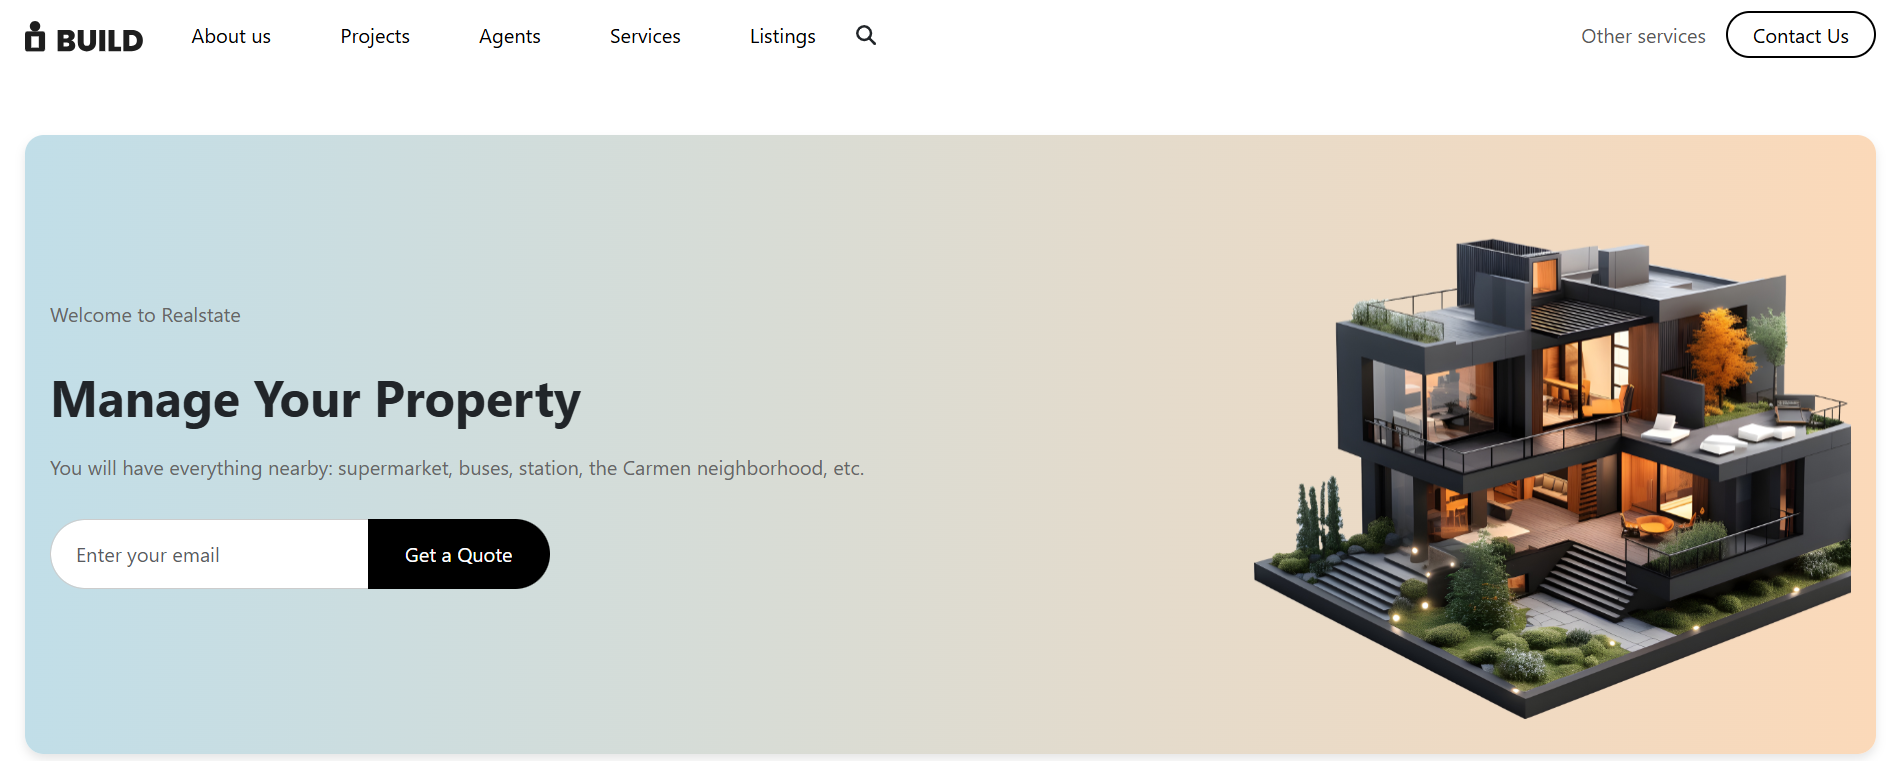
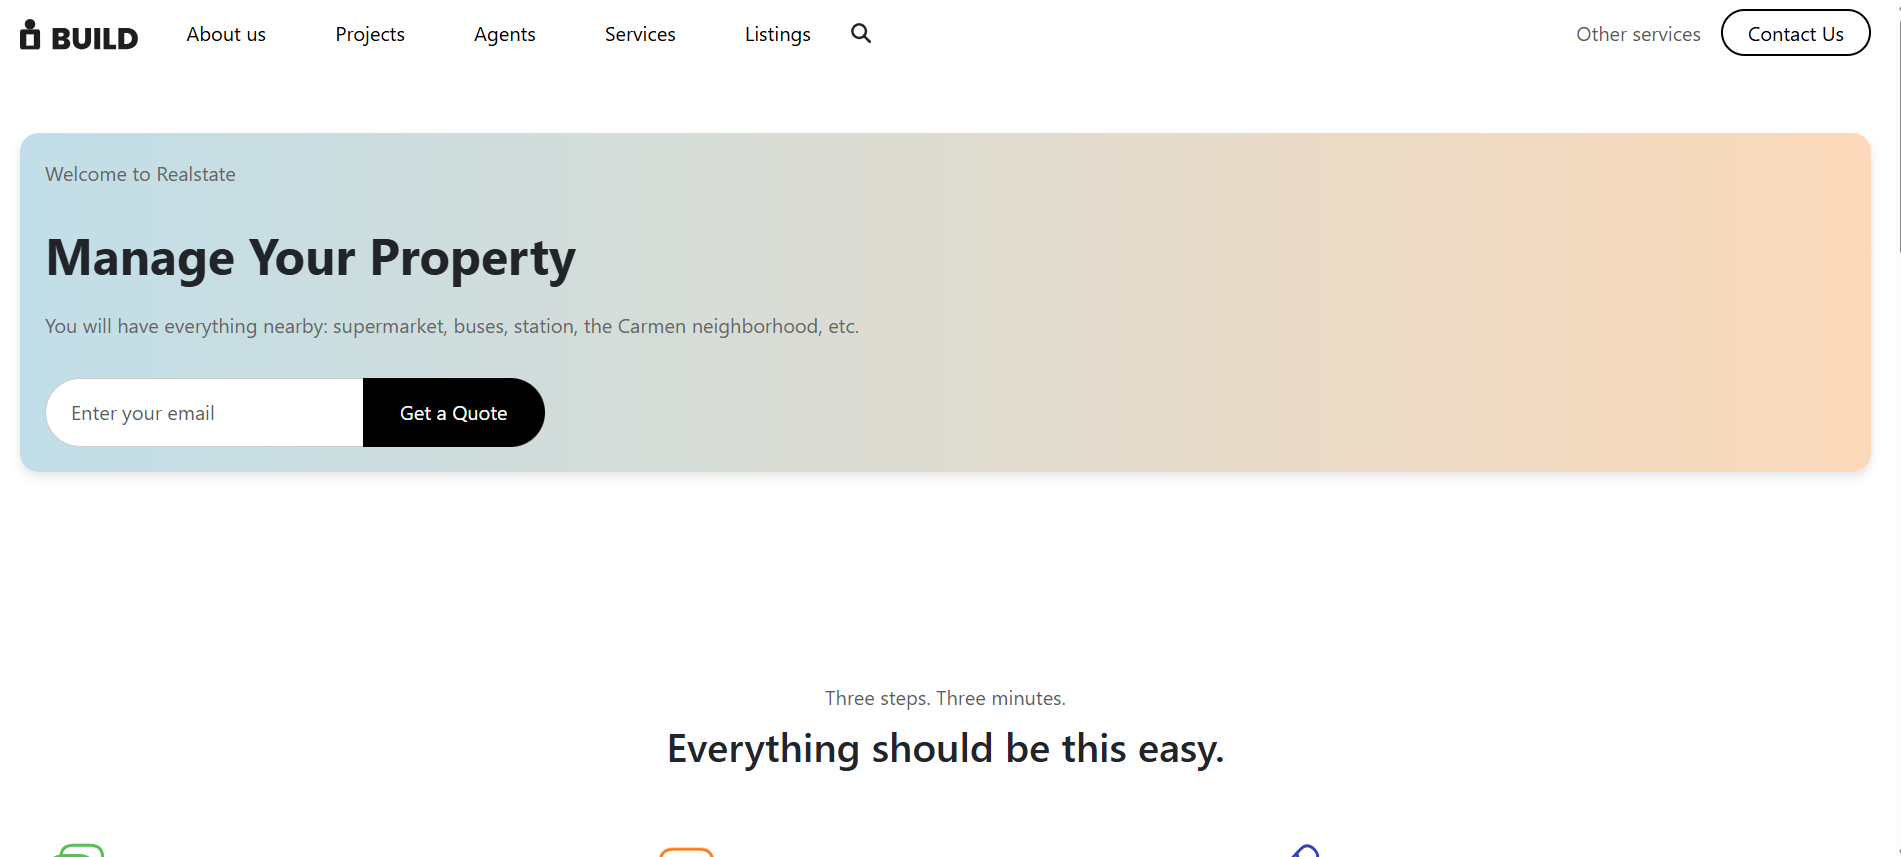
updated porfolio mockups

diff --git a/index.html b/index.html
@@ -437,7 +437,7 @@
                             </div>
                             <div class="col-lg-4 col-sm-6">
                                 <div class="portfolio-img" data-bs-toggle="modal" data-bs-target="#project7Modal">
-                                    <img decoding="async" src="./assets/images/portfolio/EFamily/Instagram post - 1.png"
+                                    <img decoding="async" src="./assets/images/portfolio/seller-margin/Mockupitem.png"
                                         class="img-fluid w-100">
                                     <div class="overlay"> <i class="fas fa-plus"></i></div>
                                 </div>
@@ -449,7 +449,7 @@
                             </div>
                             <div class="col-lg-4 col-sm-6">
                                 <div class="portfolio-img" data-bs-toggle="modal" data-bs-target="#project9Modal">
-                                    <img decoding="async" src="./assets/images/portfolio/EFamily/Instagram post - 1.png"
+                                    <img decoding="async" src="./assets/images/portfolio/luminaXper/Mockupitem.png"
                                         class="img-fluid w-100">
                                     <div class="overlay"> <i class="fas fa-plus"></i></div>
                                 </div>
@@ -461,7 +461,7 @@
                             </div>
                             <div class="col-lg-4 col-sm-6">
                                 <div class="portfolio-img" data-bs-toggle="modal" data-bs-target="#project8Modal">
-                                    <img decoding="async" src="./assets/images/portfolio/EFamily/Instagram post - 1.png"
+                                    <img decoding="async" src="./assets/images/portfolio/fitness-gym/Mockupitem.png"
                                         class="img-fluid w-100">
                                     <div class="overlay"> <i class="fas fa-plus"></i></div>
                                 </div>
@@ -500,7 +500,7 @@
                            
                             <div class="col-lg-4 col-sm-6">
                                 <div class="portfolio-img" data-bs-toggle="modal" data-bs-target="#project10Modal">
-                                    <img decoding="async" src="./assets/images/portfolio/EFamily/Instagram post - 1.png"
+                                    <img decoding="async" src="./assets/images/portfolio/foodi-website/Mockupitem.png"
                                         class="img-fluid w-100">
                                     <div class="overlay"> <i class="fas fa-plus"></i></div>
                                 </div>
@@ -512,7 +512,7 @@
                             </div>
                             <div class="col-lg-4 col-sm-6">
                                 <div class="portfolio-img" data-bs-toggle="modal" data-bs-target="#project11Modal">
-                                    <img decoding="async" src="./assets/images/portfolio/EFamily/Instagram post - 1.png"
+                                    <img decoding="async" src="./assets/images/portfolio/realstate/Mockupitem.png"
                                         class="img-fluid w-100">
                                     <div class="overlay"> <i class="fas fa-plus"></i></div>
                                 </div>
@@ -523,7 +523,7 @@
                             </div>
                             <div class="col-lg-4 col-sm-6">
                                 <div class="portfolio-img" data-bs-toggle="modal" data-bs-target="#project12Modal">
-                                    <img decoding="async" src="./assets/images/portfolio/EFamily/Instagram post - 1.png"
+                                    <img decoding="async" src="./assets/images/portfolio/nexcent/Mockupitem.png"
                                         class="img-fluid w-100">
                                     <div class="overlay"> <i class="fas fa-plus"></i></div>
                                 </div>
@@ -1074,7 +1074,17 @@
                    
                     <p class="card-text">
                         <strong>Description:</strong><br>
-                        Front-end GYM Complete Website
+                        Developed a complete front-end website for a fictional fitness and gym center as part of my learning and skill-building journey.
+
+                        Built a responsive and visually appealing interface using React.js and Bootstrap.
+                        
+                        Designed sections like home, services, trainers, membership plans, and contact forms.
+                        
+                        Focused on layout structure, component-based design, and cross-device responsiveness.
+                        
+                        This project helped enhance my understanding of front-end frameworks and sharpened my skills in building real-world business websites.
+                        
+                        
                       </p>
                   
                 </div>
@@ -1127,7 +1137,15 @@
                    
                     <p class="card-text">
                         <strong>Description:</strong><br>
-                        Front-end Remote Software Company LuminaXpert complete Website
+                        Developed a complete front-end website for LuminaXpert, a fictional remote software company, as a part of my personal learning and practice.
+
+                        Designed and implemented a responsive, modern UI using HTML, CSS, JavaScript, and React.js.
+                        
+                        Focused on clean layout, component reusability, and responsive design across all screen sizes.
+                        
+                        Practiced professional front-end development workflows and UI/UX principles.
+                        
+                        This project helped strengthen my skills in building full-scale website interfaces and enhanced my confidence in front-end development best practices.
                       </p>
                   
                 </div>
